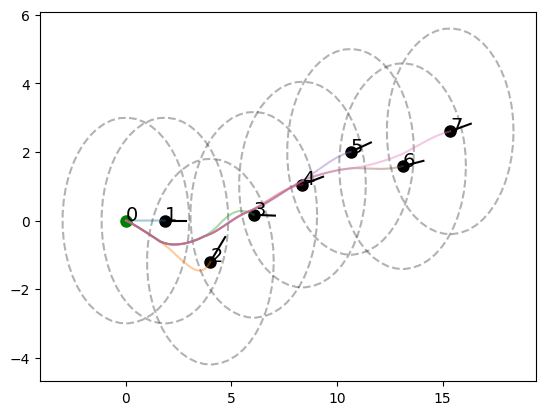
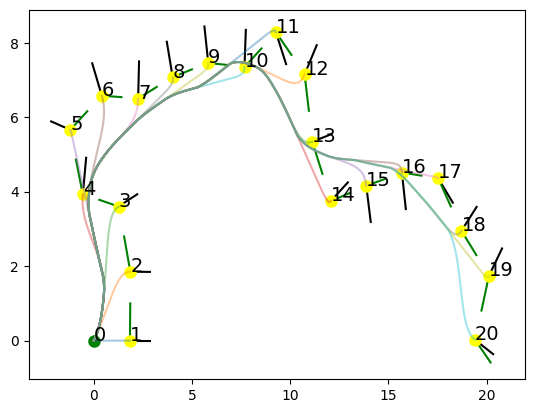
created new file line_deploy as the DeploymentFSM is not of much use anymore

diff --git a/main.py b/main.py
@@ -1,20 +1,20 @@
+from deployment.exploration_strategies.exploration_strategy import AtLandingConditionException
 from environment import Env
+
 
 from beacons.SCS.scs import SCS
 from beacons.MIN.min import Min, MinState
 
-from deployment.following_strategies.attractive_follow import AttractiveFollow
-from deployment.following_strategies.straight_line_follow import StraightLineFollow
-from deployment.exploration_strategies.potential_fields_explore import PotentialFieldsExplore
-from deployment.exploration_strategies.heuristic_explore import HeuristicExplore
 from deployment.following_strategies.no_follow import NoFollow
 from deployment.exploration_strategies.line_explore import (
   LineExplore,
   LineExploreKind
 )
 from deployment.deployment_fsm import DeploymentFSM
-
+from deployment.line_deploy import LineDeploy
 from plot_fields import FieldPlotter
+
+from helpers import normalize, rot_mat_2D 
 
 import numpy as np
 import matplotlib.pyplot as plt
@@ -29,9 +29,11 @@ def simulate(dt, mins, scs, env):
 
   for m in mins:
     m.insert_into_environment(env)
-    while not m.state == MinState.LANDED:
-          m.do_step(beacons, scs, env, dt)
-    beacons = np.append(beacons, m)
+    try:
+      while not m.state == MinState.LANDED:
+            m.do_step(beacons, scs, env, dt)
+    except AtLandingConditionException:
+      beacons = np.append(beacons, m)
     for b in beacons:
       b.compute_neighbors(beacons)
     print(f"min {m.ID} landed at pos\t\t\t {m.pos}")
@@ -40,16 +42,12 @@ def simulate(dt, mins, scs, env):
     dists_to_prev[m.ID - 1] = np.linalg.norm(beacons[-1].pos - beacons[-2].pos)
     dists_bar[m.ID - 1] = np.sum(dists_to_prev)/(len(beacons) - 1)
 
-    if not m.deployment_strategy.get_target() is None:
-          print(f"Its target now has {len(m.deployment_strategy.get_target().neighbors)} neighs\n------------------", )
-  print(f"minimum number of neighbors: {min(beacons, key=lambda b: len(b.neighbors))}")
-
-  print("D")
-  print(dists_to_prev)
-  print("D_bar")
-  print(dists_bar)
-  print("---")
   return beacons
+
+def get_exploration_vec(MIN, neighs):
+  x_neighs = np.concatenate([n.pos.reshape(2, 1) for n in neighs], axis=1)
+  opposite_neigh_dir_vec = np.sum(MIN.pos.reshape(2, 1) - x_neighs, axis=1)
+  return rot_mat_2D(np.pi/2 * np.random.uniform(-1, 1))@normalize(opposite_neigh_dir_vec)
 
 if __name__ == "__main__":
 
@@ -66,7 +64,7 @@ if __name__ == "__main__":
 
   max_range = 3
 
-  N_mins = 7
+  N_mins = 20
   dt = 10e-4
 
   scs = SCS(max_range)
@@ -76,12 +74,8 @@ if __name__ == "__main__":
   mins = [
     Min(
       max_range,
-      DeploymentFSM(
-        NoFollow(),
-        LineExplore(
-          K_o=0.01,
-          kind=LineExploreKind.TWO_DIM_LOCAL,
-        )
+      LineDeploy(
+        get_exploration_dir_callback = lambda MIN, neighs: get_exploration_vec(MIN, neighs)
       ),
       xi_max=3,
       d_perf=1,
@@ -91,10 +85,6 @@ if __name__ == "__main__":
 
 
   beacons = simulate(dt, mins, scs, env)
-
-  F = FieldPlotter(beacons=beacons, RSSI_threshold=LineExplore.RSSI_TRHESHOLD)
-  F.plot_potential_field()
-  F.plot_force_field()
 
   fig, ax = plt.subplots(1)
   

diff --git a/deployment/line_deploy.py b/deployment/line_deploy.py
@@ -1,0 +1,52 @@
+from deployment.exploration_strategies.exploration_strategy import (
+    AtLandingConditionException
+)
+from deployment.deployment_helpers import get_obstacle_forces as gof
+
+import numpy as np
+
+class LineDeploy():
+
+  TAU_XI = 0.5
+
+  def __init__(self, force_threshold=0.01, get_exploration_dir_callback = lambda MIN, neighs: np.array([1, 0])):
+    self.neigh_idxs = None
+    self.prev_neigh_idx_set = set()
+    self.__force_thresh = force_threshold
+    self.__get_v = get_exploration_dir_callback
+
+  def get_velocity_vector(self, MIN, beacons, SCS, ENV):
+    xi_is = np.array([MIN.get_xi_to_other_from_model(b) for b in beacons])
+
+    self.neigh_idxs = np.argwhere(xi_is >= self.TAU_XI).reshape(-1)
+    self.neigh_xi_is = xi_is[self.neigh_idxs]
+    neighs_idx_set = set(self.neigh_idxs)
+
+    if not neighs_idx_set == self.prev_neigh_idx_set:
+      self.prev_neigh_idx_set = neighs_idx_set
+
+      self.neigh_x_is = np.concatenate([b.pos.reshape(2, 1) for b in beacons[self.neigh_idxs]], axis=1)
+      self.neigh_v_is = np.concatenate([b.v.reshape(2, 1) for b in beacons[self.neigh_idxs]], axis=1)
+
+      leader_idx = np.argmax([b.ID for b in beacons[self.neigh_idxs]])
+
+      self.neigh_k_is = np.ones(self.neigh_idxs.shape)
+      self.neigh_a_is = np.zeros(self.neigh_idxs.shape)
+      self.neigh_a_is[leader_idx] = np.sum(self.neigh_k_is)
+
+    F = -np.sum(
+      self.neigh_k_is*(
+        MIN.pos.reshape(2, 1) - self.neigh_a_is*(self.neigh_x_is + self.neigh_xi_is*self.neigh_v_is)
+      )
+    , axis=1).reshape(2, )
+
+    if np.linalg.norm(F) < self.__force_thresh and self.neigh_idxs.shape[0] != 0:
+      MIN.v = self.__get_v(MIN, beacons[self.neigh_idxs])
+      raise AtLandingConditionException
+    elif self.neigh_idxs.shape[0] == 0:
+      print(f"MIN {MIN.ID} landing due to no neighbors")
+      MIN.v = self.__get_v(MIN, beacons[np.array(self.prev_neigh_idx_set)])
+      raise AtLandingConditionException 
+
+    return F
+

diff --git a/beacons/MIN/min.py b/beacons/MIN/min.py
@@ -60,7 +60,8 @@ class Min(Beacon):
   """""
   def plot(self, axis):
     self.heading_arrow = plot_vec(axis, p2v(1, self.heading), self.pos)
-    return super().plot(axis, clr=self.clr[self.state]) + (self.heading_arrow, )
+    self.v_arrow = plot_vec(axis, self.v, self.pos, clr="green")
+    return super().plot(axis, clr=self.clr[self.state]) + (self.heading_arrow, self.v_arrow)
 
   def plot_traj_line(self, axis):
     self.traj_line, = axis.plot(*self._pos_traj, alpha=0.4)
@@ -72,9 +73,7 @@ class Min(Beacon):
     self.point.set_color(self.clr[self.state_traj[index]])
     self.annotation.set_x(new_pos[0])
     self.annotation.set_y(new_pos[1])
-    theta = np.linspace(0, 2*np.pi)
-    self.radius.set_data(new_pos.reshape(2, 1) + p2v(self.range, theta))
     self.traj_line.set_data(self._pos_traj[:, :index])
 
     self.heading_arrow.set_data(*np.hstack((new_pos.reshape(2, 1), new_pos.reshape(2, 1) + p2v(1, self._heading_traj[index]).reshape(2, 1))))
-    return self.point, self.annotation, self.radius, self.traj_line, self.heading_arrow
+    return self.point, self.annotation, self.traj_line, self.heading_arrow

diff --git a/beacons/beacon.py b/beacons/beacon.py
@@ -69,12 +69,5 @@ class Beacon():
   def plot(self, axis, clr="green"):
     self.point = axis.plot(*self.pos, color=clr, marker="o", markersize=8)[0]
     self.annotation = axis.annotate(self.ID, xy=(self.pos[0], self.pos[1]), fontsize=14)
-    theta = np.linspace(0, 2*np.pi)
-    self.radius = axis.plot(
-      self.pos[0] + self.range*np.cos(theta), self.pos[1] + self.range*np.sin(theta),
-      linestyle="dashed",
-      color="black",
-      alpha=0.3
-    )[0]
 
-    return self.point, self.annotation, self.radius
+    return self.point, self.annotation

diff --git a/helpers.py b/helpers.py
@@ -26,6 +26,9 @@ def rot_z_mat(ang):
         [     0     ,      0      , 1]
     ])
 
+def rot_mat_2D(ang):
+  return rot_z_mat(ang)[:2, :2]
+
 def plot_vec(axis, vec, startpoint=np.zeros((2, )), clr="black", alpha=1):
     """
 
